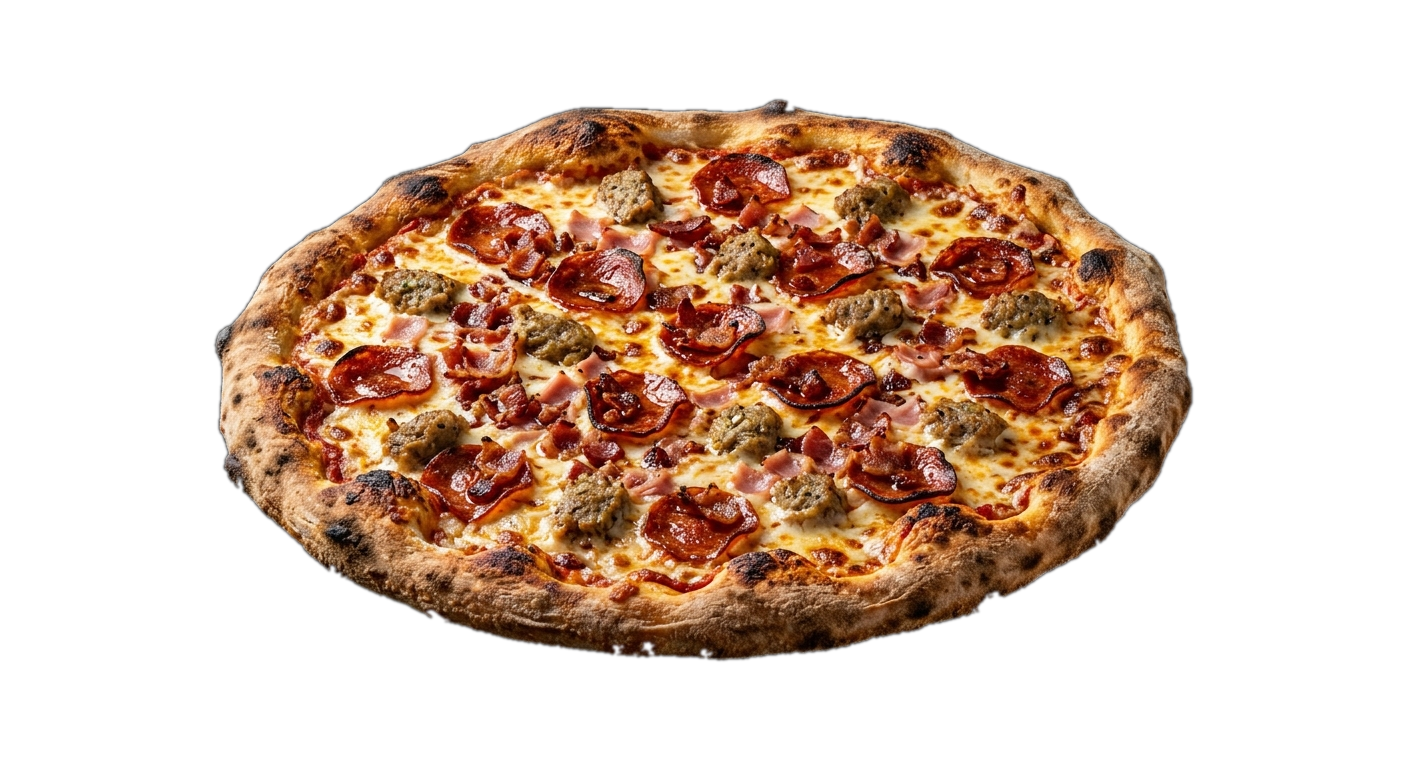
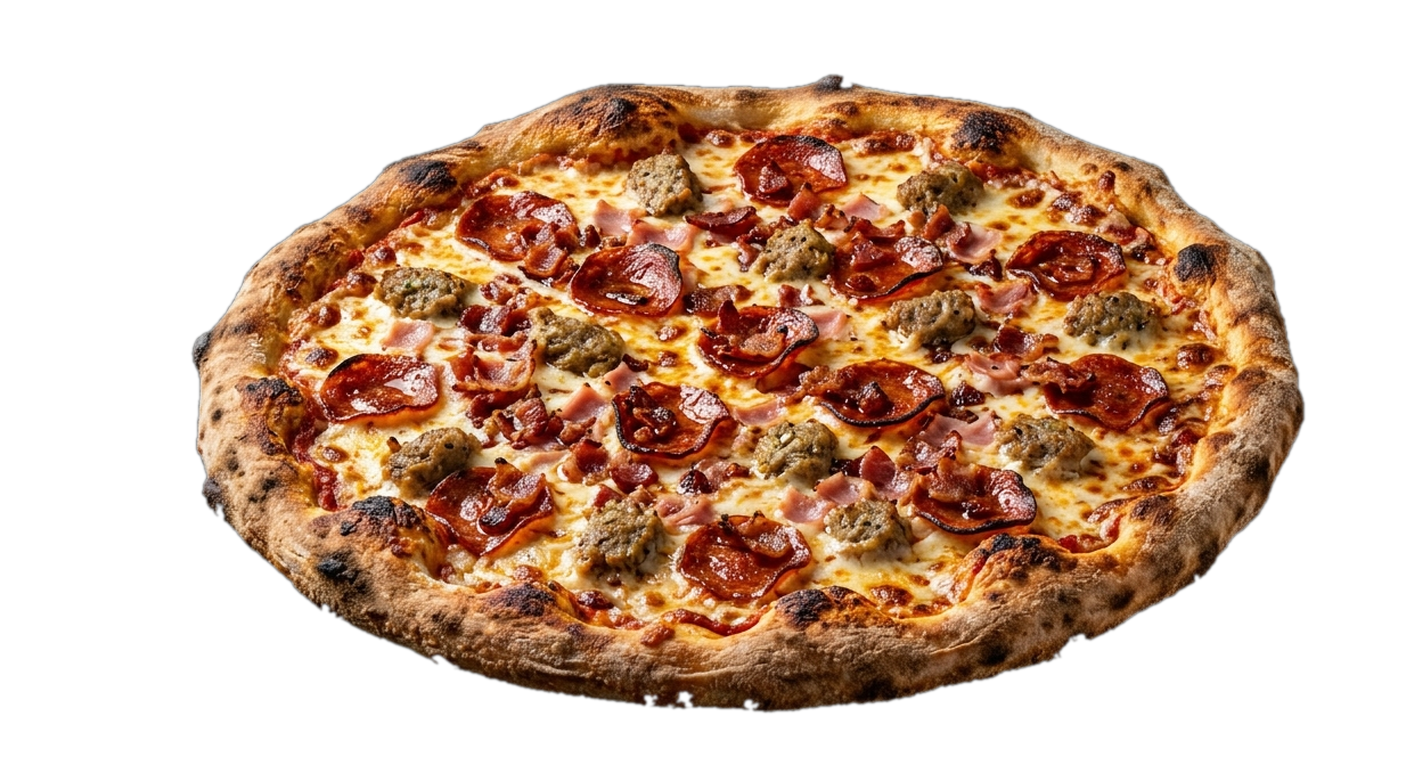
feat(ui): refine category rail spacing, gold click transition, and hero image alignment

diff --git a/src/components/HeroSlider.tsx b/src/components/HeroSlider.tsx
@@ -175,16 +175,16 @@ export default function HeroSlider({ dict }: HeroSliderProps) {
       <h2 className="sr-only">{activeSlide.title}</h2>
       <p className="sr-only">{activeSlide.description}</p>
 
-      {/* FULL-WIDTH CONTAINER: No max-w-7xl constraint to eliminate dead empty space */}
-      <div className="w-full px-3 sm:px-6 lg:px-8 xl:px-12 overflow-visible relative">
+      {/* CONSTRAINED LUXURY CONTAINER: Anchored to max-w-7xl to prevent wide-screen dispersion */}
+      <div className="max-w-7xl 2xl:max-w-[1380px] mx-auto px-4 sm:px-6 lg:px-8 overflow-visible relative">
         
-        {/* MASTER FULL-WIDTH HERO CARD PRESENTATION */}
-        <div className="w-full relative min-h-[460px] sm:min-h-[500px] lg:min-h-[540px] xl:min-h-[580px] rounded-2xl sm:rounded-3xl lg:rounded-[32px] bg-gradient-to-b from-[#15171d]/90 via-[#101216]/95 to-[#0b0c0f] border border-white/10 shadow-[0_25px_60px_rgba(0,0,0,0.85)] flex items-center overflow-visible">
+        {/* MASTER HERO CARD PRESENTATION */}
+        <div className="w-full relative min-h-[480px] sm:min-h-[540px] lg:min-h-[600px] xl:min-h-[640px] rounded-2xl sm:rounded-3xl lg:rounded-[36px] bg-gradient-to-b from-[#15171d]/90 via-[#101216]/95 to-[#0b0c0f] border border-white/10 shadow-[0_25px_60px_rgba(0,0,0,0.85)] flex items-center overflow-visible">
 
-          <div className="w-full h-full flex flex-col lg:flex-row items-center justify-between px-6 sm:px-10 lg:px-14 xl:px-18 py-8 lg:py-12 relative overflow-visible">
+          <div className="w-full h-full flex flex-col lg:flex-row items-center justify-between px-6 sm:px-10 lg:px-12 xl:px-14 py-8 lg:py-12 relative overflow-visible">
 
             {/* LEFT EDITORIAL COLUMN */}
-            <div className="w-full lg:max-w-[48%] xl:max-w-[45%] 2xl:max-w-[42%] z-20 flex flex-col justify-center text-left">
+            <div className="w-full lg:max-w-[48%] xl:max-w-[46%] z-20 flex flex-col justify-center text-left">
               
               {/* Badge */}
               <div className="inline-flex items-center gap-2 self-start px-3.5 py-1.5 rounded-full bg-white/[0.06] border border-white/12 text-[11px] sm:text-xs font-bold uppercase tracking-widest text-[#e6c884] mb-3 sm:mb-4 shadow-sm">
@@ -192,13 +192,13 @@ export default function HeroSlider({ dict }: HeroSliderProps) {
                 <span>{activeSlide.tag}</span>
               </div>
 
-              {/* Title */}
+              {/* Title - Bold & Impactful */}
               <h2 className="text-3xl sm:text-4xl md:text-5xl lg:text-5xl xl:text-6xl font-extrabold text-white tracking-tight leading-[1.06] mb-3 sm:mb-4 drop-shadow-md">
                 {activeSlide.title}
               </h2>
 
               {/* Description */}
-              <p className="text-white/70 text-xs sm:text-sm lg:text-base leading-relaxed max-w-lg mb-6 sm:mb-8">
+              <p className="text-white/70 text-xs sm:text-sm lg:text-base leading-relaxed max-w-md mb-6 sm:mb-8">
                 {activeSlide.description}
               </p>
 
@@ -247,19 +247,19 @@ export default function HeroSlider({ dict }: HeroSliderProps) {
 
             </div>
 
-            {/* RIGHT 3D PRODUCT COLUMN WITH OVERFLOW (NO WOODEN BOARD) */}
-            <div className="w-full lg:w-auto lg:absolute lg:right-[-3%] xl:right-[-4%] 2xl:right-[-5%] lg:top-1/2 lg:-translate-y-1/2 flex items-center justify-center overflow-visible z-20 pointer-events-none mt-6 lg:mt-0">
+            {/* RIGHT 3D PRODUCT COLUMN WITH OVERFLOW (ANCHORED & PROPORTIONAL) */}
+            <div className="w-full lg:w-auto lg:absolute lg:right-[-6%] xl:right-[-7%] 2xl:right-[-8%] lg:top-[53%] lg:-translate-y-1/2 flex items-center justify-center overflow-visible z-20 pointer-events-none mt-6 lg:mt-0">
               
               {/* Ambient Glow */}
               <div
-                className="absolute w-[340px] sm:w-[460px] lg:w-[680px] xl:w-[800px] 2xl:w-[900px] h-[340px] sm:h-[460px] lg:h-[680px] xl:h-[800px] 2xl:h-[900px] rounded-full blur-3xl pointer-events-none -z-10"
+                className="absolute w-[340px] sm:w-[480px] lg:w-[680px] xl:w-[760px] 2xl:w-[820px] h-[340px] sm:h-[480px] lg:h-[680px] xl:h-[760px] 2xl:h-[820px] rounded-full blur-3xl pointer-events-none -z-10"
                 style={{
                   background: `radial-gradient(circle, ${activeSlide.glowColor} 0%, transparent 65%)`,
                 }}
               />
 
-              {/* 3D Overflowing Product Container - Scaled boldly to eliminate dead space */}
-              <div className="relative w-[320px] sm:w-[440px] md:w-[540px] lg:w-[680px] xl:w-[780px] 2xl:w-[880px] aspect-[16/11] overflow-visible">
+              {/* 3D Overflowing Product Container */}
+              <div className="relative w-[320px] sm:w-[460px] md:w-[560px] lg:w-[680px] xl:w-[760px] 2xl:w-[820px] aspect-[16/11] overflow-visible">
                 
                 {/* Hotspot Pins */}
                 {activeSlide.pins && activeSlide.pins.map((pin, pIdx) => (
@@ -279,7 +279,7 @@ export default function HeroSlider({ dict }: HeroSliderProps) {
                   fill
                   priority
                   quality={92}
-                  sizes="(max-width: 640px) 320px, (max-width: 1024px) 540px, (max-width: 1440px) 780px, 880px"
+                  sizes="(max-width: 640px) 340px, (max-width: 1024px) 640px, (max-width: 1440px) 980px, 1120px"
                   className="object-contain filter drop-shadow-[0_28px_40px_rgba(0,0,0,0.85)] select-none"
                 />
               </div>

diff --git a/src/components/CategoryRail.tsx b/src/components/CategoryRail.tsx
@@ -10,8 +10,6 @@ interface CategoryRailProps {
 }
 
 export const CATEGORIES = [
-  { label: 'Deals & Specials', searchId: 'deals' },
-  { label: '⭐ Reviews (4.2)', searchId: 'reviews' },
   { label: 'Pizza', searchId: 'pizza' },
   { label: 'Gourmet Pizza', searchId: 'gourmet-pizza' },
   { label: 'Sicilian Pizza', searchId: 'sicilian-pizza' },
@@ -33,12 +31,14 @@ export const CATEGORIES = [
   { label: 'Soups', searchId: 'soups' },
   { label: 'Drinks', searchId: 'drinks' },
   { label: 'Side Orders', searchId: 'side-orders' },
+  { label: 'Deals & Specials', searchId: 'deals' },
   { label: 'Catering', searchId: 'catering' },
+  { label: '⭐ Reviews (4.2)', searchId: 'reviews' },
 ];
 
 export default function CategoryRail({ categoriesDict, lang = 'en', activeSlug }: CategoryRailProps) {
   const router = useRouter();
-  const [activeCategory, setActiveCategory] = useState<string>(activeSlug || '');
+  const [activeCategory, setActiveCategory] = useState<string>(activeSlug || 'pizza');
 
   const scrollRef = useRef<HTMLDivElement>(null);
   const isPaused = useRef(false);
@@ -188,18 +188,6 @@ export default function CategoryRail({ categoriesDict, lang = 'en', activeSlug }
       return;
     }
 
-    // ON HOMEPAGE: Maintain single-page app experience!
-    if (searchId === 'deals') {
-      if (typeof window !== 'undefined') {
-        window.dispatchEvent(new CustomEvent('toggle-deals', { detail: { show: true } }));
-      }
-      return;
-    } else {
-      if (typeof window !== 'undefined') {
-        window.dispatchEvent(new CustomEvent('toggle-deals', { detail: { show: false } }));
-      }
-    }
-
     let target = document.getElementById(searchId);
     if (!target) {
       target = Array.from(document.querySelectorAll('div[id],section[id]'))
@@ -239,28 +227,23 @@ export default function CategoryRail({ categoriesDict, lang = 'en', activeSlug }
         href={href}
         onClick={(e) => handleCategoryClick(e, cat.searchId)}
         className={`
-          flex-none flex items-center gap-2 px-4 py-2 md:px-5 md:py-2.5 rounded-full border text-xs sm:text-sm font-semibold whitespace-nowrap
-          transition-all duration-200 touch-manipulation select-none cursor-pointer
-          active:scale-95 focus:outline-none tracking-wide shadow-sm
+          flex-none flex items-center justify-center px-4 py-2 md:px-5 md:py-2.5 rounded-xl border text-xs sm:text-sm font-semibold whitespace-nowrap
+          transition-all duration-300 touch-manipulation select-none cursor-pointer
+          active:scale-95 focus:outline-none tracking-wide
           ${isDuplicate ? 'md:hidden' : ''}
           ${isActive
-            ? 'border-gold text-gold bg-gold/15'
-            : 'border-white/10 bg-[#16181d]/85 text-white/80 hover:text-white hover:border-white/20'
+            ? 'bg-[#c9a15c]/15 text-[#c9a15c] font-bold border-[#c9a15c] shadow-[0_0_24px_rgba(201,161,92,0.45)] ring-1 ring-[#c9a15c]/50'
+            : 'border-white/10 bg-[#16181d]/90 text-white/90 hover:text-[#c9a15c] hover:border-[#c9a15c] hover:shadow-[0_0_20px_rgba(201,161,92,0.35)] hover:-translate-y-0.5 shadow-sm active:text-[#c9a15c] active:border-[#c9a15c]'
           }
         `}
       >
-        <span
-          className={`w-1.5 h-1.5 rounded-full shrink-0 ${
-            isActive ? 'bg-gold' : 'bg-red-500'
-          }`}
-        />
         {label}
       </a>
     );
   };
 
   return (
-    <div className="sticky top-16 md:top-20 z-40 bg-ink/95 backdrop-blur-md border-b border-panel-border py-2 md:py-3.5 shadow-sm">
+    <div className="sticky top-16 md:top-20 z-40 bg-ink/95 backdrop-blur-md border-b border-panel-border pt-6 pb-4 md:pt-8 md:pb-5 shadow-sm">
       <div
         ref={scrollRef}
         onPointerDown={handleInteractionStart}
@@ -270,7 +253,7 @@ export default function CategoryRail({ categoriesDict, lang = 'en', activeSlug }
         onTouchStart={handleInteractionStart}
         onTouchEnd={handleInteractionEnd}
         onScroll={handleContainerScroll}
-        className="flex overflow-x-auto md:flex-wrap md:justify-center gap-2.5 px-3 md:px-6 max-w-7xl mx-auto no-scrollbar"
+        className="flex overflow-x-auto md:flex-wrap md:justify-center gap-2.5 md:gap-3 px-3 md:px-6 max-w-7xl mx-auto no-scrollbar pt-2 pb-1"
         style={{ WebkitOverflowScrolling: 'touch' }}
       >
         {/* Set 1: visible everywhere (wraps on desktop, flows on mobile) */}

diff --git a/src/app/[lang]/page.tsx b/src/app/[lang]/page.tsx
@@ -110,12 +110,6 @@ export default async function HomePage({
         <CategoryRail categoriesDict={dict.categories} lang={lang} />
         <StatsCounter dict={dict} />
 
-        <DealsSectionWrapper>
-          <ScrollReveal>
-            <PromotionsSection dict={dict} />
-          </ScrollReveal>
-        </DealsSectionWrapper>
-
         <section id="menu" className="max-w-7xl mx-auto px-6 py-12 scroll-mt-[210px]">
           <ScrollReveal>
             <div className="flex flex-col sm:flex-row items-center justify-between mb-12 gap-4">
@@ -193,6 +187,9 @@ export default async function HomePage({
             );
           })}
         </section>
+        <ScrollReveal>
+          <PromotionsSection dict={dict} />
+        </ScrollReveal>
         <div style={{ contentVisibility: 'auto', containIntrinsicSize: '0 500px' }}>
           <CateringSection dict={dict} lang={lang} />
         </div>

diff --git a/src/components/PromotionsSection.tsx b/src/components/PromotionsSection.tsx
@@ -157,7 +157,7 @@ export default function PromotionsSection({ dict }: PromotionsSectionProps) {
   };
 
   return (
-    <section className="py-5 sm:py-10 px-4 sm:px-6 max-w-7xl mx-auto">
+    <section id="deals" className="py-8 sm:py-14 px-4 sm:px-6 max-w-7xl mx-auto scroll-mt-28">
       <div className="flex items-center justify-between mb-4 sm:mb-8">
         <div>
           <h2 className="text-2xl sm:text-3xl font-extrabold text-gold-bright tracking-tight">
